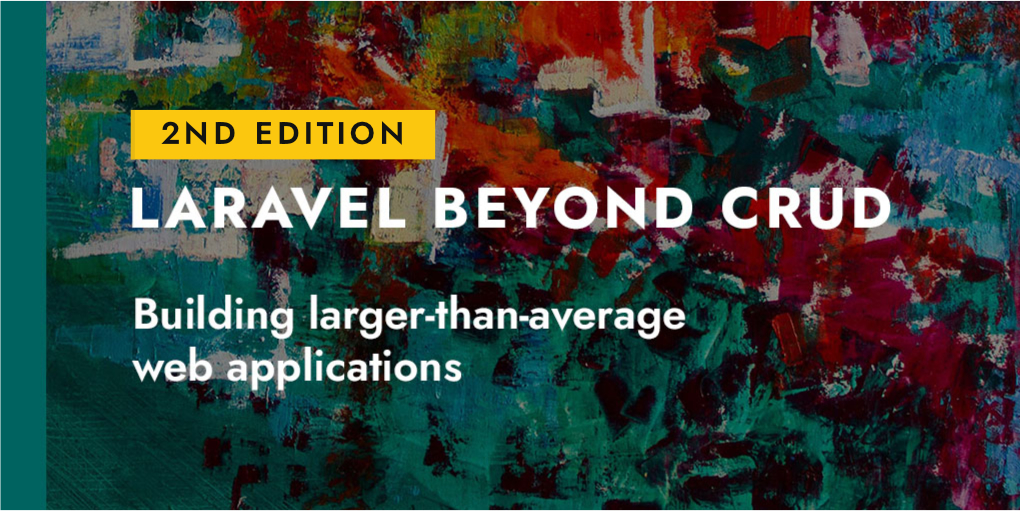
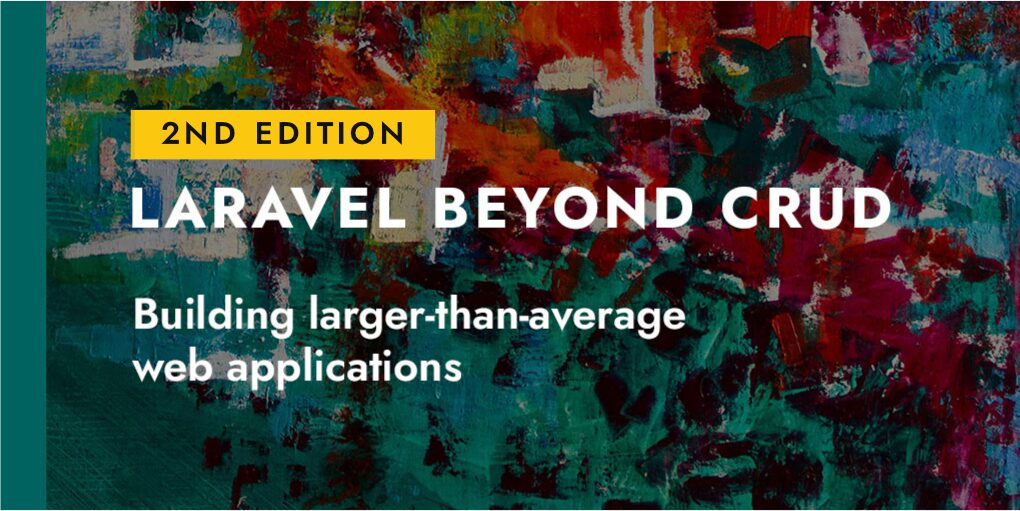
Serve smaller images

Changed region(s): [[0.1216, 0.2055, 0.3951, 0.3229], [0.4255, 0.2642, 0.4559, 0.2935], [0.3951, 0.2935, 0.4255, 0.3229]]

diff --git a/resources/views/front/home/index.blade.php b/resources/views/front/home/index.blade.php
@@ -42,9 +42,9 @@
     <main class="bg-white">
         <div class="pt-8 pb-16 -mt-48">
             <div class="absolute inset-0 w-full">
-                <img class="absolute w-full h-full object-cover object-bottom bg-green-600" srcset="/images/painting-2400.jpg 2400w,
-                        /images/painting-1600.jpg 1600w,
-                        /images/painting-800.jpg 800w" sizes="100vw" alt="Abstract painting" src="/images/painting-2400.jpg">
+                <img class="absolute w-full h-full object-cover object-bottom bg-green-600" srcset="/images/painting-2400.webp 2400w,
+                        /images/painting-1600.webp 1600w,
+                        /images/painting-800.webp 800w" sizes="100vw" alt="Abstract painting" src="/images/painting-2400.webp">
                 <div class="absolute inset-0" style="background-image: linear-gradient(to bottom, rgba(0,0,0,0), rgba(0,0,0,.5))"></div>
             </div>
 
@@ -65,9 +65,9 @@
 
                 <div class="xs:absolute bottom-0 right-0 mx-auto mb-4 w-2/3 sm:-mr-4 md:-mr-8 lg:-mr-12 xl:-mr-16 xs:w-1/2" x-data="{ open: false }">
                     <div class="w-full bg-gray-800 group">
-                        <img class="w-full opacity-75 group-hover:opacity-100 transition-opacity duration-300" srcset="/images/intro-2400.jpg 2400w,
-                        /images/intro-1600.jpg 1600w,
-                        /images/intro-800.jpg 800w" sizes="33vw" alt="Video still" src="/images/intro-2400.jpg">
+                        <img class="w-full opacity-75 group-hover:opacity-100 transition-opacity duration-300" srcset="/images/intro-2400.webp 2400w,
+                        /images/intro-1600.webp 1600w,
+                        /images/intro-800.webp 800w" sizes="33vw" alt="Video still" src="/images/intro-2400.webp">
                         <button class="absolute inset-0 w-full flex items-center justify-center" @click="open = true">
                             <div class="py-2 px-3 font-display text-gray-900 bg-yellow-500 uppercase tracking-widest text-xs font-bold">
                                 Watch intro <i class="ml-2 fas fa-play"></i>
@@ -126,10 +126,9 @@
                 <div class="mb-12 xs:mb-0 w-2/3 xs:w-1/2 xs:pr-8">
                     <div class="h-full xs:-ml-4">
                         <div class="bg-gray-900 xs:absolute left-0 bottom-0 w-full shadow-2xl">
-                            <img srcset="/images/cover-2000.jpg 2000w,
-                                    /images/cover-1000.jpg 1000w,
-                                    /images/cover-500.jpg 500w" sizes="(max-width: 420px) 75vw,
-                                    33vw" alt="Ebook cover" src="/images/cover-2000.jpg"
+                            <img srcset="/images/cover-1000.webp 1000w,
+                                    /images/cover-500.webp 500w" sizes="(max-width: 420px) 75vw,
+                                    360px" alt="Ebook cover" src="/images/cover-1000.webp"
                                     class="w-full">
                             <span class="absolute w-4 h-full bg-green-600 top-0 left-0"></span>
                             <div class="absolute inset-0 w-full flex items-end justify-end">
@@ -160,7 +159,7 @@
                 </div>
                 <div class="group mt-12 w-2/3 xs:w-1/2 xs:pr-8" x-data="{ video: false }">
                     <div class="w-full bg-gray-900">
-                        <img class="w-full opacity-100 group-hover:opacity-75 transition-opacity duration-300" src="/images/example-video.jpg" alt="Video still"/>
+                        <img class="w-full opacity-100 group-hover:opacity-75 transition-opacity duration-300" src="/images/example-video.webp" alt="Video still"/>
                         <span class="absolute w-full h-4 bg-gray-900 bottom-0 left-0 opacity-25"></span>
                         <div class="absolute inset-0 w-full flex items-end justify-end cursor-pointer" @click="video = true">
                             <button class="-mb-4 -mr-4  py-2 px-3 font-display text-gray-900 bg-yellow-500 uppercase tracking-widest text-xs font-bold">
@@ -257,9 +256,9 @@
                 <section class="h-full px-8">
                     <div class="h-full max-w-2xl mx-auto flex justify-start">
                         <div class="w-1/3 pr-8">
-                            <img style="right:2rem; width:33vw" class="absolute max-w-none h-full object-cover object-right-top" srcset="/images/fragment-800.jpg 800w,
-                                    /images/fragment-600.jpg 600w,
-                                    /images/fragment-400.jpg 400w" sizes="33vw" alt="Abstract painting" src="/images/fragment-800.jpg">
+                            <img style="right:2rem; width:33vw" class="absolute max-w-none h-full object-cover object-right-top" srcset="/images/fragment-800.webp 800w,
+                                    /images/fragment-600.webp 600w,
+                                    /images/fragment-400.webp 400w" sizes="33vw" alt="Abstract painting" src="/images/fragment-800.webp">
                         </div>
                         <div>
                 </section>
@@ -280,7 +279,7 @@
 
                             <div class="mt-6 flex items-center text-lg">
                                 <div class="mr-6">
-                                    <img src="/images/avatars/brent.jpg" class="z-10 w-16 h-16 md:w-24 md:h-24" alt="Avatar">
+                                    <img src="/images/avatars/brent.webp" class="z-10 w-16 h-16 md:w-24 md:h-24" alt="Avatar">
                                     <div class="absolute w-full h-full top-0 left-0 mt-2 ml-2 bg-yellow-400"></div>
                                 </div>
                                 <div class="leading-tight">
@@ -303,7 +302,7 @@
 
                             <div class="mt-6 flex items-center text-lg">
                                 <div class="mr-6">
-                                    <img src="/images/avatars/freek.jpg" class="z-10 w-16 h-16 md:w-24 md:h-24" alt="Avatar">
+                                    <img src="/images/avatars/freek.webp" class="z-10 w-16 h-16 md:w-24 md:h-24" alt="Avatar">
                                     <div class="absolute w-full h-full top-0 left-0 mt-2 ml-2 bg-blue-300"></div>
                                 </div>
                                 <div class="leading-tight">
@@ -329,7 +328,7 @@
 
                         <a href="https://twitter.com/enunomaduro" target="_blank" class="mt-4 flex items-center font-display text-lg">
                             <div class="mr-4">
-                                <img src="/images/nuno.jpg" class="z-10 w-8 h-8 bg-gray-200" alt="Avatar">
+                                <img src="/images/nuno.webp" class="z-10 w-8 h-8 bg-gray-200" alt="Avatar">
                                 <div class="absolute w-full h-full top-0 left-0 mt-1 ml-1 bg-gray-800 opacity-25"></div>
                             </div>
                             <div>
@@ -349,7 +348,7 @@
 
                         <a href="https://twitter.com/themsaid" class="mt-4 flex items-center font-display text-lg">
                             <div class="mr-4">
-                                <img src="/images/mohamed.jpg" class="z-10 w-8 h-8 bg-gray-200" alt="Avatar">
+                                <img src="/images/mohamed.webp" class="z-10 w-8 h-8 bg-gray-200" alt="Avatar">
                                 <div class="absolute w-full h-full top-0 left-0 mt-1 ml-1 bg-gray-800 opacity-25"></div>
                             </div>
                             <div>

diff --git a/resources/views/front/layouts/article.blade.php b/resources/views/front/layouts/article.blade.php
@@ -20,9 +20,9 @@
     <main class="bg-white">
         <div class="pt-8 pb-16 -mt-48">
             <div class="absolute inset-0 w-full">
-                <img class="absolute w-full h-full object-cover object-bottom bg-green-600" srcset="/images/painting-2400.jpg 2400w,
-                        /images/painting-1600.jpg 1600w,
-                        /images/painting-800.jpg 800w" sizes="100vw" alt="Abstract painting" src="/images/painting-2400.jpg">
+                <img class="absolute w-full h-full object-cover object-bottom bg-green-600" srcset="/images/painting-2400.webp 2400w,
+                        /images/painting-1600.webp 1600w,
+                        /images/painting-800.webp 800w" sizes="100vw" alt="Abstract painting" src="/images/painting-2400.webp">
                 <div class="absolute inset-0" style="background-image: linear-gradient(to bottom, rgba(0,0,0,0), rgba(0,0,0,.5))"></div>
             </div>
         </div>
@@ -38,9 +38,9 @@
                 <section class="h-full px-8">
                     <div class="h-full max-w-2xl mx-auto flex justify-start">
                         <div class="w-1/3 pr-8">
-                            <img style="right:2rem; width:33vw" class="absolute max-w-none h-full object-cover object-right-top" srcset="/images/fragment-800.jpg 800w,
-                                    /images/fragment-600.jpg 600w,
-                                    /images/fragment-400.jpg 400w" sizes="33vw" alt="Abstract painting" src="/images/fragment-800.jpg">
+                            <img style="right:2rem; width:33vw" class="absolute max-w-none h-full object-cover object-right-top" srcset="/images/fragment-800.webp 800w,
+                                    /images/fragment-600.webp 600w,
+                                    /images/fragment-400.webp 400w" sizes="33vw" alt="Abstract painting" src="/images/fragment-800.webp">
                         </div>
                         <div>
                 </section>

diff --git a/resources/views/partials/footer.blade.php b/resources/views/partials/footer.blade.php
@@ -14,7 +14,7 @@
             <div class="mt-8 xs:flex items-center text-lg">
                 <div class="flex-none mr-8 my-6 flex items-center justify-center w-20 h-20 rounded-full bg-testinglaravel-100 overflow-hidden">
                     <a href="https://testing-laravel.com" target="_blank">
-                        <img src="/images/testing-laravel.png" class="z-10 w-10 h-10" alt="Laravel Package Training">
+                        <img src="/images/testing-laravel.webp" class="z-10 w-10 h-10" alt="Laravel Package Training">
                     </a>
                 </div>
                 <div>
@@ -33,7 +33,7 @@
             <div class="mt-8 xs:flex items-center text-lg">
                 <div class="flex-none mr-8 my-6 flex items-center justify-center w-20 h-20 rounded-full bg-white overflow-hidden">
                     <a href="https://writing-readable-php.com" target="_blank">
-                        <img src="/images/php.jpg" class="z-10" alt="Writing Readable PHP">
+                        <img src="/images/php.webp" class="z-10" alt="Writing Readable PHP">
                     </a>
                 </div>
                 <div>

diff --git a/resources/views/front/home/sample-chapter.blade.php b/resources/views/front/home/sample-chapter.blade.php
@@ -883,9 +883,9 @@
                 <section class="h-full px-8">
                     <div class="h-full max-w-2xl mx-auto flex justify-start">
                         <div class="w-1/3 pr-8">
-                            <img style="right:2rem; width:33vw" class="absolute max-w-none h-full object-cover object-right-top" srcset="/images/fragment-800.jpg 800w,
-                                    /images/fragment-600.jpg 600w,
-                                    /images/fragment-400.jpg 400w" sizes="33vw" alt="Abstract painting" src="/images/fragment-800.jpg">
+                            <img style="right:2rem; width:33vw" class="absolute max-w-none h-full object-cover object-right-top" srcset="/images/fragment-800.webp 800w,
+                                    /images/fragment-600.webp 600w,
+                                    /images/fragment-400.webp 400w" sizes="33vw" alt="Abstract painting" src="/images/fragment-800.webp">
                         </div>
                         <div>
                 </section>

diff --git a/resources/views/partials/priceCard.blade.php b/resources/views/partials/priceCard.blade.php
@@ -117,7 +117,7 @@
                             <span class="ml-2">Get Laravel Beyond CRUD &amp; <a class="markup-link" href="https://testing-laravel.com">Testing Laravel</a> with a <strong class="font-semibold">20% discount</strong>!</span>
                             </li>
                     </ul>
-                    <img src="/images/bundle_trans.png" alt="cover image bundle Testing Laravel & Laravel Beyond Crud">
+                    <img src="/images/bundle_trans.webp" alt="cover image bundle Testing Laravel & Laravel Beyond Crud">
                 </div>
             </div>
         </div>
